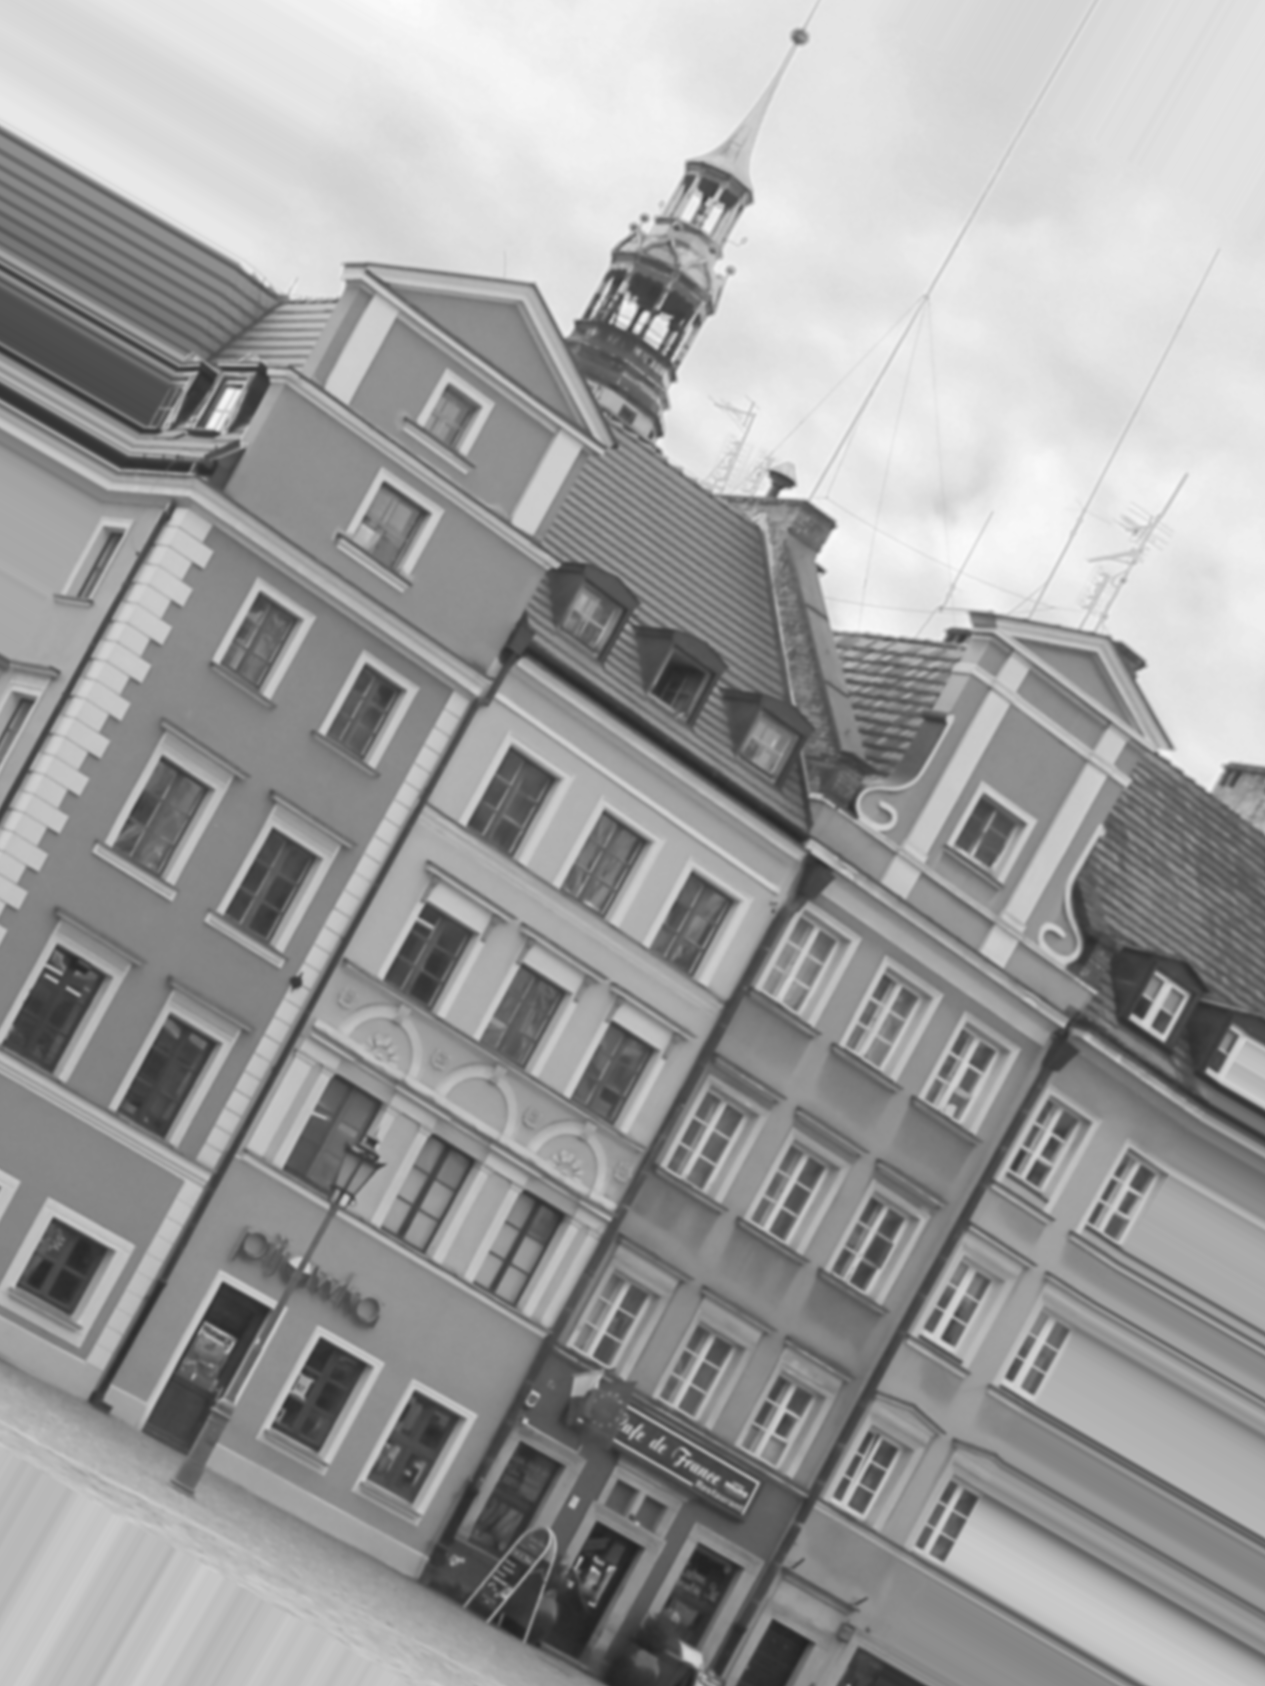
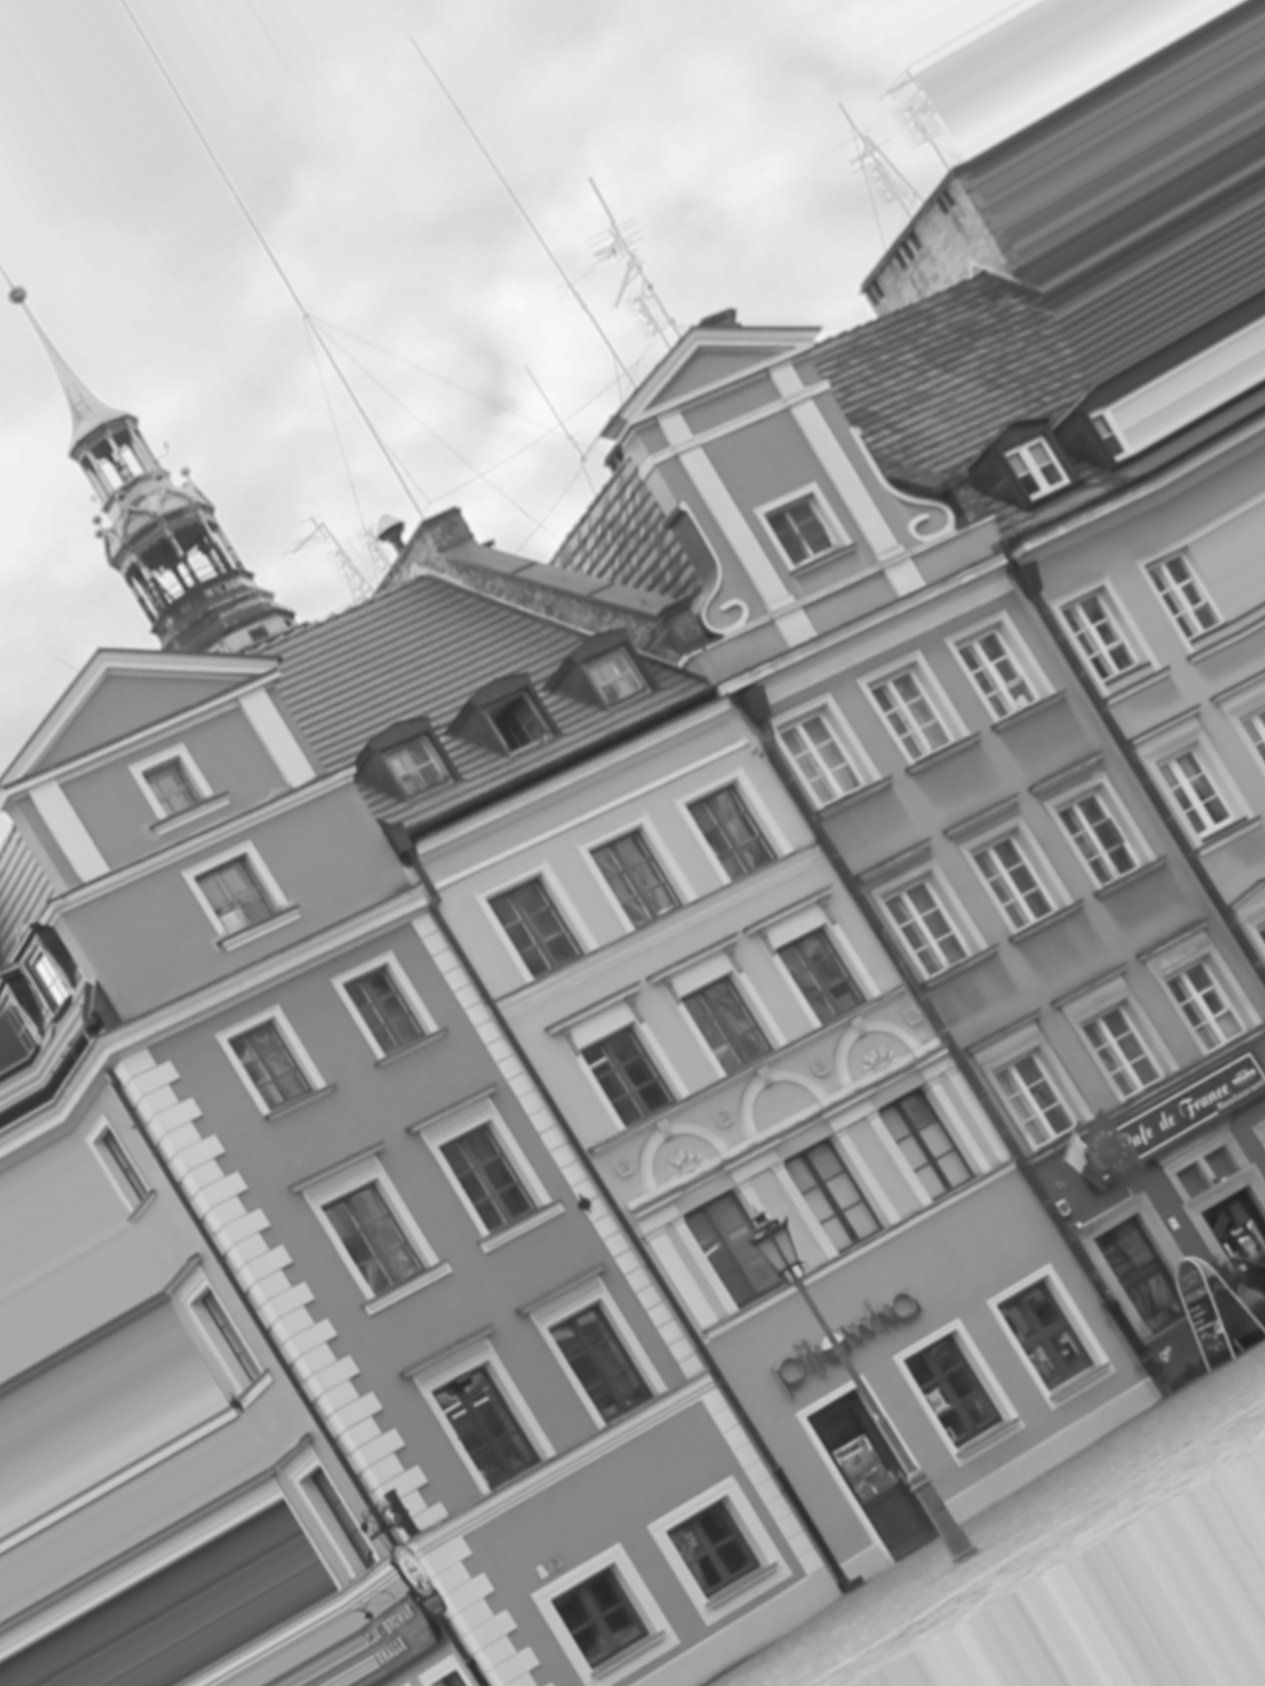
fix: correct angle value for image processing

diff --git a/Lab6/Lab6.py b/Lab6/Lab6.py
@@ -2,7 +2,7 @@ import cv2
 import numpy as np
 
 image_path = 'rynek_frag.jpg'
-angle = -30
+angle = 30
 maxCorners = 100
 qualityLevel = 0.4
 minDistance = 10
